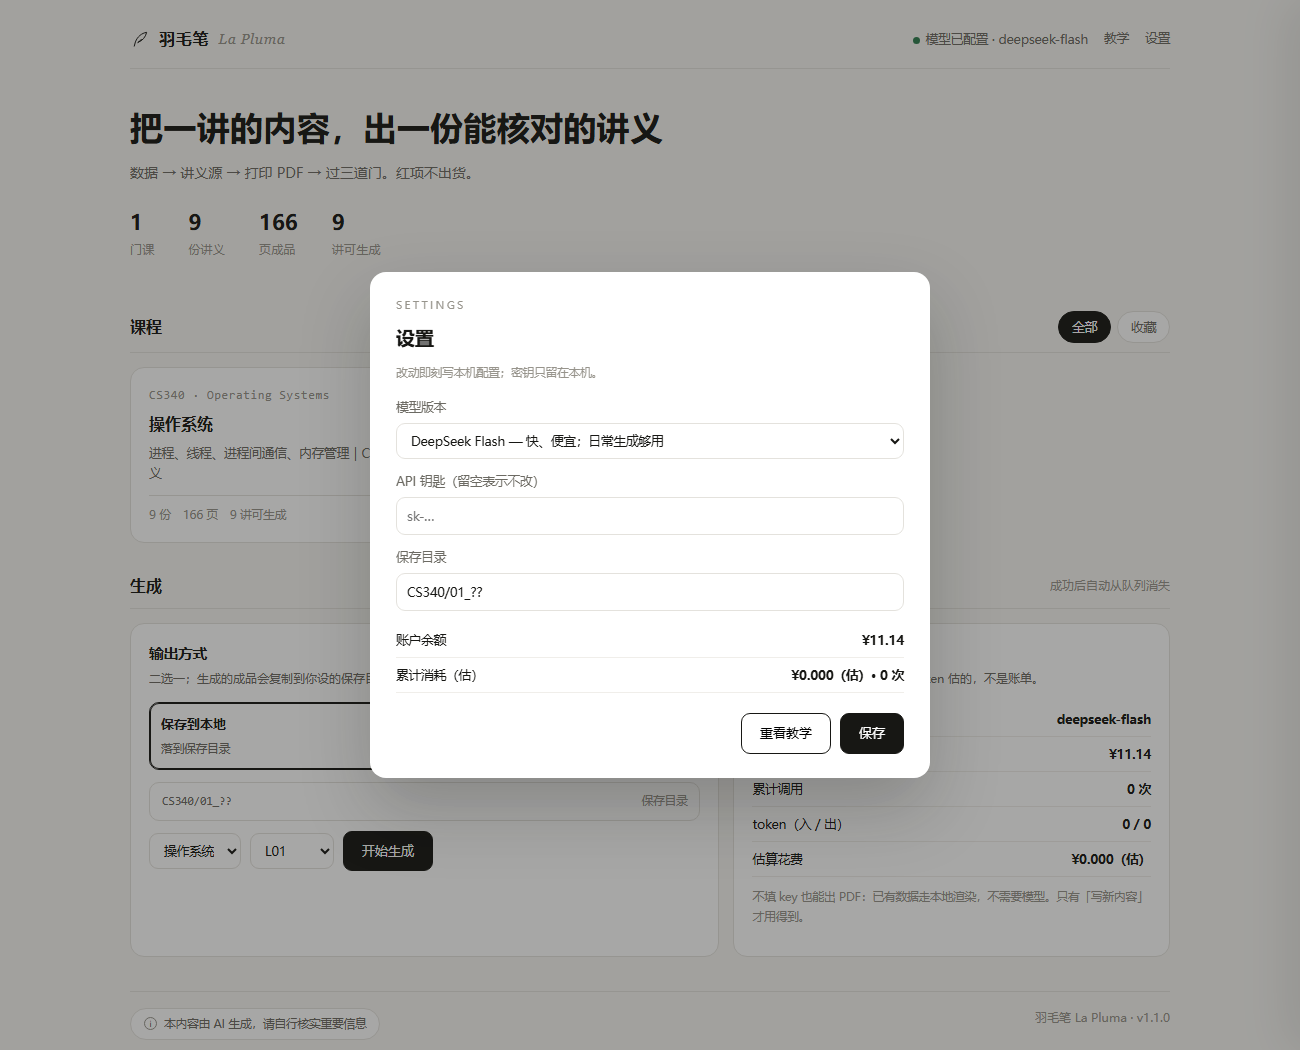
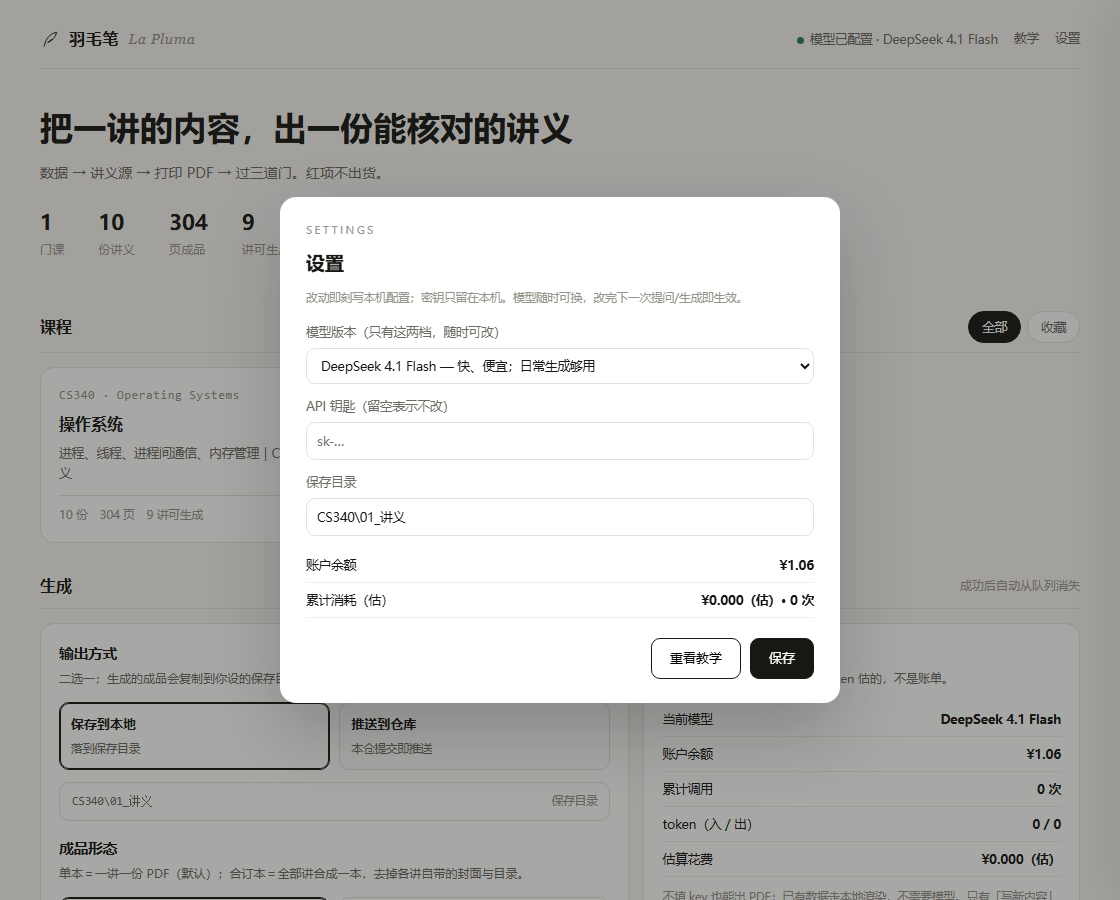
feat(界面): 模型只留 DeepSeek 4.1 两档并写明随时可改（接口 id 不变）；真实界面截图重拍

diff --git a/ui/index.html b/ui/index.html
@@ -224,17 +224,19 @@
 <script>
 const $=s=>document.querySelector(s);
 let B={}, MODE='local', FORM='single', TAB='all', Q=[], MODEL='deepseek-flash';
+// 发给接口的是 id（deepseek-flash / deepseek-v4-pro），界面上显示的是档名（DeepSeek 4.1 Flash / 4.1 Pro）
+function mname(id){ const m=(B.models||[]).find(x=>x.id===id); return m?m.name:id; }
 
 async function boot(){
   const r=await fetch('/api/bootstrap'); B=await r.json();
   MODEL=B.model; $('#ver').textContent='v'+B.version;
-  $('#mModel').textContent=B.model;
+  $('#mModel').textContent=mname(B.model);
   if($('#dirFix')) $('#dirFix').style.display = B.save_dir_fixed ? 'block' : 'none';
   render(); fillSelects(); refreshUsage();
   $('#outPath').textContent=B.save_dir;
   const apiOk=B.configured;
   $('#dot').className='dot '+(apiOk?'ok':'no');
-  $('#status').textContent=apiOk?'模型已配置 · '+B.model:'未配置模型（不影响出 PDF）';
+  $('#status').textContent=apiOk?'模型已配置 · '+mname(B.model):'未配置模型（不影响出 PDF）';
   if(!B.wizard_done) setTimeout(()=>wizard(0),500);
   if(/wizard=1/.test(location.search)) setTimeout(()=>wizard(0),300);
   if(/settings=1/.test(location.search)) setTimeout(()=>$('#btnSet').click(),300);
@@ -377,7 +379,7 @@ $('#btnAsk').onclick=async()=>{
       log.style.display='none'; box.style.display='block';
       box.innerHTML=`<div class="ask-q">${q}</div>`+
         `<div class="ask-text">${j.answer.replace(/</g,'&lt;').replace(/\n/g,'<br>')}</div>`+
-        `<div class="ask-meta">${j.model} · ${j.seconds}s · 命中 ${(j.refs||[]).length} 段</div>`+
+        `<div class="ask-meta">${mname(j.model)} · ${j.seconds}s · 命中 ${(j.refs||[]).length} 段</div>`+
         (refs?`<details><summary>命中的片段（核对用）</summary><ol>${refs}</ol></details>`:'');
       refreshUsage();
     }else{
@@ -413,7 +415,7 @@ function wizard(step){
   let body='';
   if(step===0){
     body=`<h4>先选模型版本</h4>
-      <p class="note-s">选哪个都能出 PDF；区别只在「让 AI 写新内容」时的质量和花费。以后可在设置里改。</p>
+      <p class="note-s">只有两档：选哪个都能出 PDF，区别只在「让 AI 写新内容」时的质量和花费。以后随时可在设置里改。</p>
       <div class="pick">
         ${B.models.map(m=>`<div class="p ${W.model===m.id?'on':''}" data-m="${m.id}"><b>${m.name}</b><small>${m.note}</small></div>`).join('')}
       </div>`;
@@ -466,8 +468,8 @@ function wizard(step){
 $('#btnSet').onclick=()=>{
   $('#dlg').innerHTML=`
     <div class="eb">Settings</div><h4>设置</h4>
-    <p class="note-s" style="margin-bottom:14px">改动即刻写本机配置；密钥只留在本机。</p>
-    <div style="font-size:12.5px;color:#6c6a63;margin-bottom:6px">模型版本</div>
+    <p class="note-s" style="margin-bottom:14px">改动即刻写本机配置；密钥只留在本机。模型随时可换，改完下一次提问/生成即生效。</p>
+    <div style="font-size:12.5px;color:#6c6a63;margin-bottom:6px">模型版本（只有这两档，随时可改）</div>
     <select id="sModel" style="width:100%;margin-bottom:12px">
       ${B.models.map(m=>`<option value="${m.id}" ${m.id===MODEL?'selected':''}>${m.name} — ${m.note}</option>`).join('')}
     </select>

diff --git a/ui/server.py b/ui/server.py
@@ -47,8 +47,12 @@ PRICE = {
     "deepseek-v4-pro": {"in": 2.0, "out": 8.0},
 }
 MODELS = [
-    {"id": "deepseek-flash", "name": "DeepSeek Flash", "note": "快、便宜；日常生成够用"},
-    {"id": "deepseek-v4-pro", "name": "DeepSeek V4 Pro", "note": "更强；长推导、结构复杂的讲次"},
+    # 2026-11-16 用户定：只留这两档（4.1 Flash / 4.1 Pro）。
+    # 注意 id 不能改：接口 GET /models 实测只返回 deepseek-flash 与 deepseek-v4-pro
+    # （python api\client.py --check 可复验），把 id 换成带 4.1 的写法会让 /chat/completions 直接 400。
+    # 「4.1」只是给人看的档名，改的是 name，不改 id。
+    {"id": "deepseek-flash", "name": "DeepSeek 4.1 Flash", "note": "快、便宜；日常生成够用"},
+    {"id": "deepseek-v4-pro", "name": "DeepSeek 4.1 Pro", "note": "更强；长推导、结构复杂的讲次"},
 ]
 
 

diff --git a/api/client.py b/api/client.py
@@ -24,6 +24,9 @@ import urllib.request
 
 DEFAULT_BASE = "https://api.deepseek.com"
 DEFAULT_MODEL = "deepseek-flash"
+# 接口 GET /models 实测只给这两个 id（python api\client.py --check 可复验）。
+# 界面把它叫作 DeepSeek 4.1 Flash / 4.1 Pro，但发请求时用的必须是下面这两个 id，
+# 写成 deepseek-4.1-flash 之类会被服务端拒。
 MODELS = ("deepseek-flash", "deepseek-v4-pro")
 
 USER_CFG = os.path.join(os.path.expanduser("~"), ".pluma", "api.json")

diff --git a/docs/使用/04-API与密钥.md b/docs/使用/04-API与密钥.md
@@ -46,9 +46,13 @@ python api\client.py --chat "写一句开场"     # 一次性问答
 
 ## 模型怎么选
 
-| 模型 | 场景 |
-|:--|:--|
-| `deepseek-flash`（默认） | 快、便宜，日常生成足够 |
-| `deepseek-v4-pro` | 长讲、结构复杂的推导，值得多花钱时用 |
+**只有两档**（2026-11-16 定）。第一次用向导里选，之后随时在右上「设置」里换，改完下一次提问 / 生成即生效。
+
+| 界面档名 | 接口 id | 场景 |
+|:--|:--|:--|
+| DeepSeek 4.1 Flash（默认） | `deepseek-flash` | 快、便宜，日常生成足够 |
+| DeepSeek 4.1 Pro | `deepseek-v4-pro` | 长讲、结构复杂的推导，值得多花钱时用 |
+
+**id 不能改**：「4.1」是给人看的版本档名，接口实际只认这两个 id（`GET /models` 实测，`python api\client.py --check` 可复验）。写成 `deepseek-4.1-flash` 这类会被服务端拒绝。平台以后若换了 id，探活命令会直接显示新列表。
 
 换模型只改配置文件里的 `model`，或界面里选。同一份数据换模型重跑，内容会变，页数可能变——这不是 bug。

diff --git a/README.md b/README.md
@@ -52,7 +52,7 @@ cd LaPluma
 python engine\_make.py L01
 ```
 
-**第一次打开会走配置向导**：选模型版本（Flash / V4 Pro）→ 填 API 钥匙（可跳过）→ 选保存目录 → 完成。之后随时在右上「设置」里改。
+**第一次打开会走配置向导**：选模型版本（4.1 Flash / 4.1 Pro，只有两档）→ 填 API 钥匙（可跳过）→ 选保存目录 → 完成。之后随时在右上「设置」里改。
 
 ## 界面
 
@@ -111,7 +111,7 @@ A/B/C 三层离线可跑；只有「让 AI 写新内容」才需要 D。
 
 ## 模型与用量
 
-- 模型：`deepseek-flash`（默认，快省）、`deepseek-v4-pro`（更强）
+- 模型：只留两档 —— DeepSeek 4.1 Flash（默认，快省）/ 4.1 Pro（更强）；接口 id 仍是 `deepseek-flash` / `deepseek-v4-pro`，设置里随时可换
 - 密钥读取顺序：`PLUMA_API_KEY` 环境变量 → `%USERPROFILE%\.pluma\api.json` → PRTS 侧 secrets → 界面手填
 - **余额**是接口读的真数（`/user/balance`）；**花费**按 token 单价估算，界面写明「估」，不是账单
 

diff --git a/docs/预览/README.md b/docs/预览/README.md
@@ -15,6 +15,7 @@
 | `01-课程分页.png` | 顶部导航分页（课程 / 生成），课程做成卡片网格 | 「课程单独开一个新分页，卡片式」 | 待实现 |
 | `02-课件抽屉.png` | 点课程卡后的右侧抽屉，10 份成品全列出，底部「问这一门 →」 | 「AI 入口放到这个页面」 | 待实现 |
 | `03-课件会话.png` | 单独一门的会话页：问答带出处、右侧范围栏、「＋ 引用其他课件…」 | 「一个课件一个会话，互不干涉，除非要求联系其他课件」 | 待实现 |
+| `04-设置-模型两档.png` | 设置弹窗与首次配置第 1 步：模型只列 DeepSeek 4.1 Flash / 4.1 Pro 两档，写明随时可改 | 「模型版本只用 4.1 flash 和 4.1 pro 并且可以后续重新选择」 | **已实现**（2026-11-16）· 真实界面见 `../资产/界面-设置.png` |
 
 ## 怎么重拍 / 怎么加新稿
 

diff --git a/docs/00-总索引.md b/docs/00-总索引.md
@@ -26,7 +26,7 @@
 | 质量门 | 源 / 内容 / 版式三道，任一红即停 |
 | 界面 | `python ui\server.py`，浏览器里选课、看成品、生成 |
 | 界面改动的规矩 | 先出图后改码；`python tools\check\check-ui-preview.py` 判红黄（红＝没带预览图） |
-| 模型接入 | DeepSeek 兼容口径，`deepseek-flash` / `deepseek-v4-pro` |
+| 模型接入 | DeepSeek 兼容口径，只有两档：4.1 Flash / 4.1 Pro（接口 id 仍是 `deepseek-flash` / `deepseek-v4-pro`） |
 
 ## 两条边界，先说清
 
